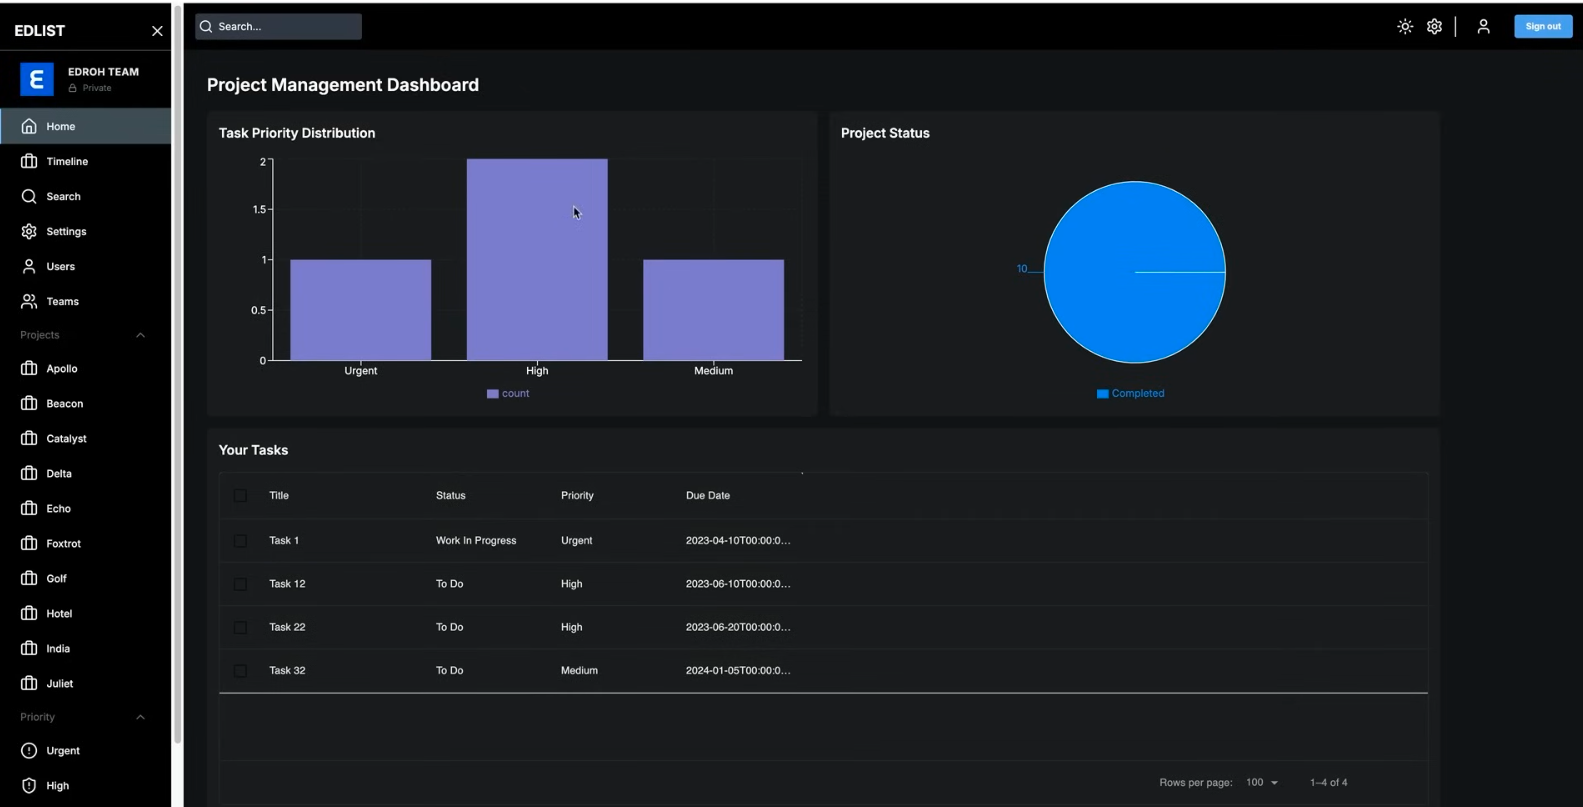
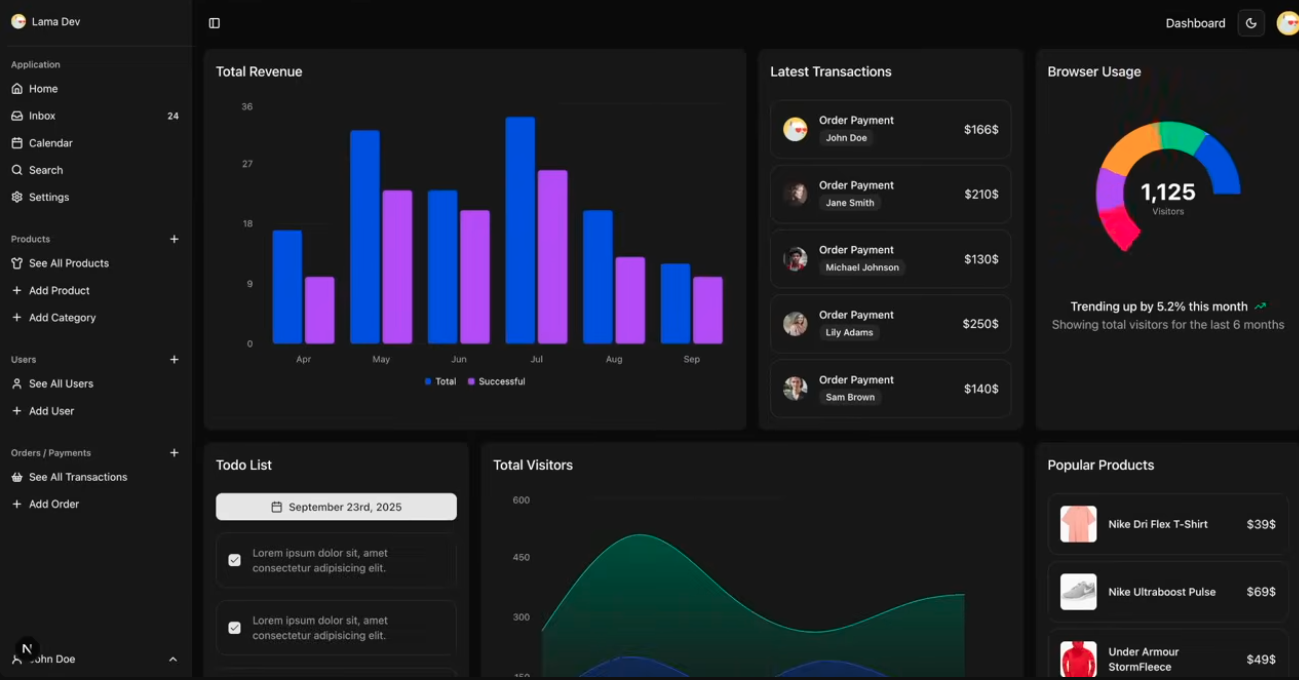
add project 2 and 3

diff --git a/src/pages/Projects.tsx b/src/pages/Projects.tsx
@@ -6,6 +6,8 @@ import { ExternalLink, Github, ArrowRight } from "lucide-react";
 import aksGitopsThumb from "@/assets/projects/aks-gitops-thumb.jpg";
 import playwrightThumb from "@/assets/projects/playwright-thumb.jpg";
 import moviesFinder from "@/assets/projects/movie-finder-poster.png";
+import image2_1 from "@/assets/projects/2/image.png";
+import image3_1 from "@/assets/projects/3/image.png";
 
 const Projects = () => {
   const projects = [
@@ -16,20 +18,57 @@ const Projects = () => {
       description:
         "Movies finder is a web application that allows users to search for movies and view details about them. The app is built using React.js, with data sourced from the TMDB API. The deployment is automated using a GitOps approach with ArgoCD and Helm on a bare-metal Kubernetes.",
       thumbnail: moviesFinder,
-      tags: ["argocd", "kubernetes", "docker", "gitlab ci/cd", "prometheus","grafana", "monitoring", "homelab", "ingress" , "helm"],
-
-
-      // details: {
-      //   architecture:
-      //     "The pipeline includes a GitHub Actions workflow that builds Docker images, pushes them to Docker Hub, and triggers an ArgoCD sync to deploy the latest version on AKS.",
-      //   tools: ["Docker", "Kubernetes", "ArgoCD", "Terraform", "Prometheus", "Grafana", "GitHub Actions"],
-      //   steps: ["Created app images", "Wrote Helm charts", "Set up ArgoCD pipeline"],
-      //   challenges:
-      //     "I initially faced an issue where ArgoCD couldn't sync due to missing CRDs. The fix was to use the argocd.argoproj.io/sync-wave annotation in Helm hooks.",
-      //   results: "GitHub repo + screenshots of ArgoCD sync & Grafana dashboards",
-      //   learning:
-      //     "This project taught me how GitOps simplifies deployments. Next, I plan to add Terraform to manage cluster infrastructure and integrate Prometheus for observability.",
-      // },
+      tags: [
+        "argocd",
+        "kubernetes",
+        "docker",
+        "gitlab ci/cd",
+        "prometheus",
+        "grafana",
+        "monitoring",
+        "homelab",
+        "ingress",
+        "helm",
+      ],
+    },
+    {
+      id: "monitoring-microservices-ecommerce-app",
+      title:
+        "Monitoring Microservices 3-tier e-commerce app on EKS with GitOps",
+      description:
+        "E-commerce app is a microservices-based web application that allows users to browse and purchase products online. The app is built using React.js for the frontend, Node.js with Express for the backend, and MongoDB for data storage. The deployment is automated using a GitOps approach with ArgoCD and Helm on AWS EKS. The monitoring stack includes Prometheus, Grafana, and Loki for comprehensive observability.",
+      thumbnail: image2_1,
+      tags: [
+        "argocd",
+        "kubernetes",
+        "docker",
+        "gitlab ci/cd",
+        "prometheus",
+        "grafana",
+        "monitoring",
+        "homelab",
+        "ingress",
+        "helm",
+      ],
+    },
+    {
+      id: "nextjs-inventory-management-dashboard-aws",
+      title:
+        "Nextjs Inventory Management Dashboard & Deploy on AWS",
+      description:
+        "Inventory Management Dashboard is a web application that helps businesses manage their inventory levels, orders, and suppliers. The app is built using Next.js for the frontend, Node.js with Express for the backend, and Postgres for data storage. The deployment leverages various AWS services to ensure scalability, reliability, and security.",
+      thumbnail: image3_1,
+      tags: [
+        "Postgres",
+        "Node",
+        "Tailwind",
+        "EC2",
+        "RDS",
+        "S3",
+        "AWS",
+        "Terraform",
+        "Ansible",
+      ],
     },
     // {
     //   id: "deploying-3-tier-project-management-aws-services",
@@ -69,7 +108,7 @@ const Projects = () => {
   ];
 
   // Semantic colors based on technology
-   const getTagColor = (tag: string) => {
+  const getTagColor = (tag: string) => {
     const colorMap: Record<string, string> = {
       // DevOps tools
       argocd:

diff --git a/src/pages/ProjectDetail2.tsx b/src/pages/ProjectDetail2.tsx
@@ -34,7 +34,7 @@ import code from "@/assets/projects/1/code.png";
 import code1 from "@/assets/projects/1/code1.png";
 import { useEffect, useState } from "react";
 
-const ProjectDetail1 = () => {
+const ProjectDetail2 = () => {
   const [showButton, setShowButton] = useState(false);
 
   useEffect(() => {
@@ -42,7 +42,6 @@ const ProjectDetail1 = () => {
       setShowButton(window.scrollY > 200); // show button after 200px scroll
     };
     window.scrollTo(0, 0);
-
     window.addEventListener("scroll", handleScroll);
     return () => window.removeEventListener("scroll", handleScroll);
   }, []);
@@ -172,7 +171,7 @@ const ProjectDetail1 = () => {
           <div className="space-y-8">
             <div className="animate-fade-in">
               <h1 className="text-4xl md:text-5xl font-bold mb-4">
-                End-to-End DevSecOps Project (Movies Finder)
+                Monitoring Microservices 3-tier e-commerce app on EKS with GitOps
               </h1>
               <div className="flex flex-wrap gap-2 mb-6">
                 {[
@@ -1292,4 +1291,4 @@ const ProjectDetail1 = () => {
   );
 };
 
-export default ProjectDetail1;
+export default ProjectDetail2;

diff --git a/src/pages/ProjectDetail3.tsx b/src/pages/ProjectDetail3.tsx
@@ -34,7 +34,7 @@ import code from "@/assets/projects/1/code.png";
 import code1 from "@/assets/projects/1/code1.png";
 import { useEffect, useState } from "react";
 
-const ProjectDetail1 = () => {
+const ProjectDetail3 = () => {
   const [showButton, setShowButton] = useState(false);
 
   useEffect(() => {
@@ -42,7 +42,6 @@ const ProjectDetail1 = () => {
       setShowButton(window.scrollY > 200); // show button after 200px scroll
     };
     window.scrollTo(0, 0);
-
     window.addEventListener("scroll", handleScroll);
     return () => window.removeEventListener("scroll", handleScroll);
   }, []);
@@ -172,7 +171,7 @@ const ProjectDetail1 = () => {
           <div className="space-y-8">
             <div className="animate-fade-in">
               <h1 className="text-4xl md:text-5xl font-bold mb-4">
-                End-to-End DevSecOps Project (Movies Finder)
+                Nextjs Inventory Management Dashboard & Deploy on AWS
               </h1>
               <div className="flex flex-wrap gap-2 mb-6">
                 {[
@@ -1292,4 +1291,4 @@ const ProjectDetail1 = () => {
   );
 };
 
-export default ProjectDetail1;
+export default ProjectDetail3;

diff --git a/src/App.tsx b/src/App.tsx
@@ -10,6 +10,8 @@ import About from "./pages/About";
 import Projects from "./pages/Projects";
 import ProjectDetail from "./pages/ProjectDetail";
 import ProjectDetail1 from "./pages/ProjectDetail1";
+import ProjectDetail2 from "./pages/ProjectDetail2";
+import ProjectDetail3 from "./pages/ProjectDetail3";
 import Blog from "./pages/Blog";
 import Contact from "./pages/Contact";
 import Resume from "./pages/Resume";
@@ -32,6 +34,8 @@ const App = () => (
             <Route path="/about" element={<About />} />
             <Route path="/projects" element={<Projects />} />
             <Route path="/projects/deploying-movies-finder" element={<ProjectDetail1 />} />
+            <Route path="/projects/monitoring-microservices-ecommerce-app" element={<ProjectDetail2 />} />
+            <Route path="/projects/nextjs-inventory-management-dashboard-aws" element={<ProjectDetail3 />} />
             <Route path="/projects/:id" element={<ProjectDetail />} />
             <Route path="/blog" element={<Blog />} />
             <Route path="/contact" element={<Contact />} />
